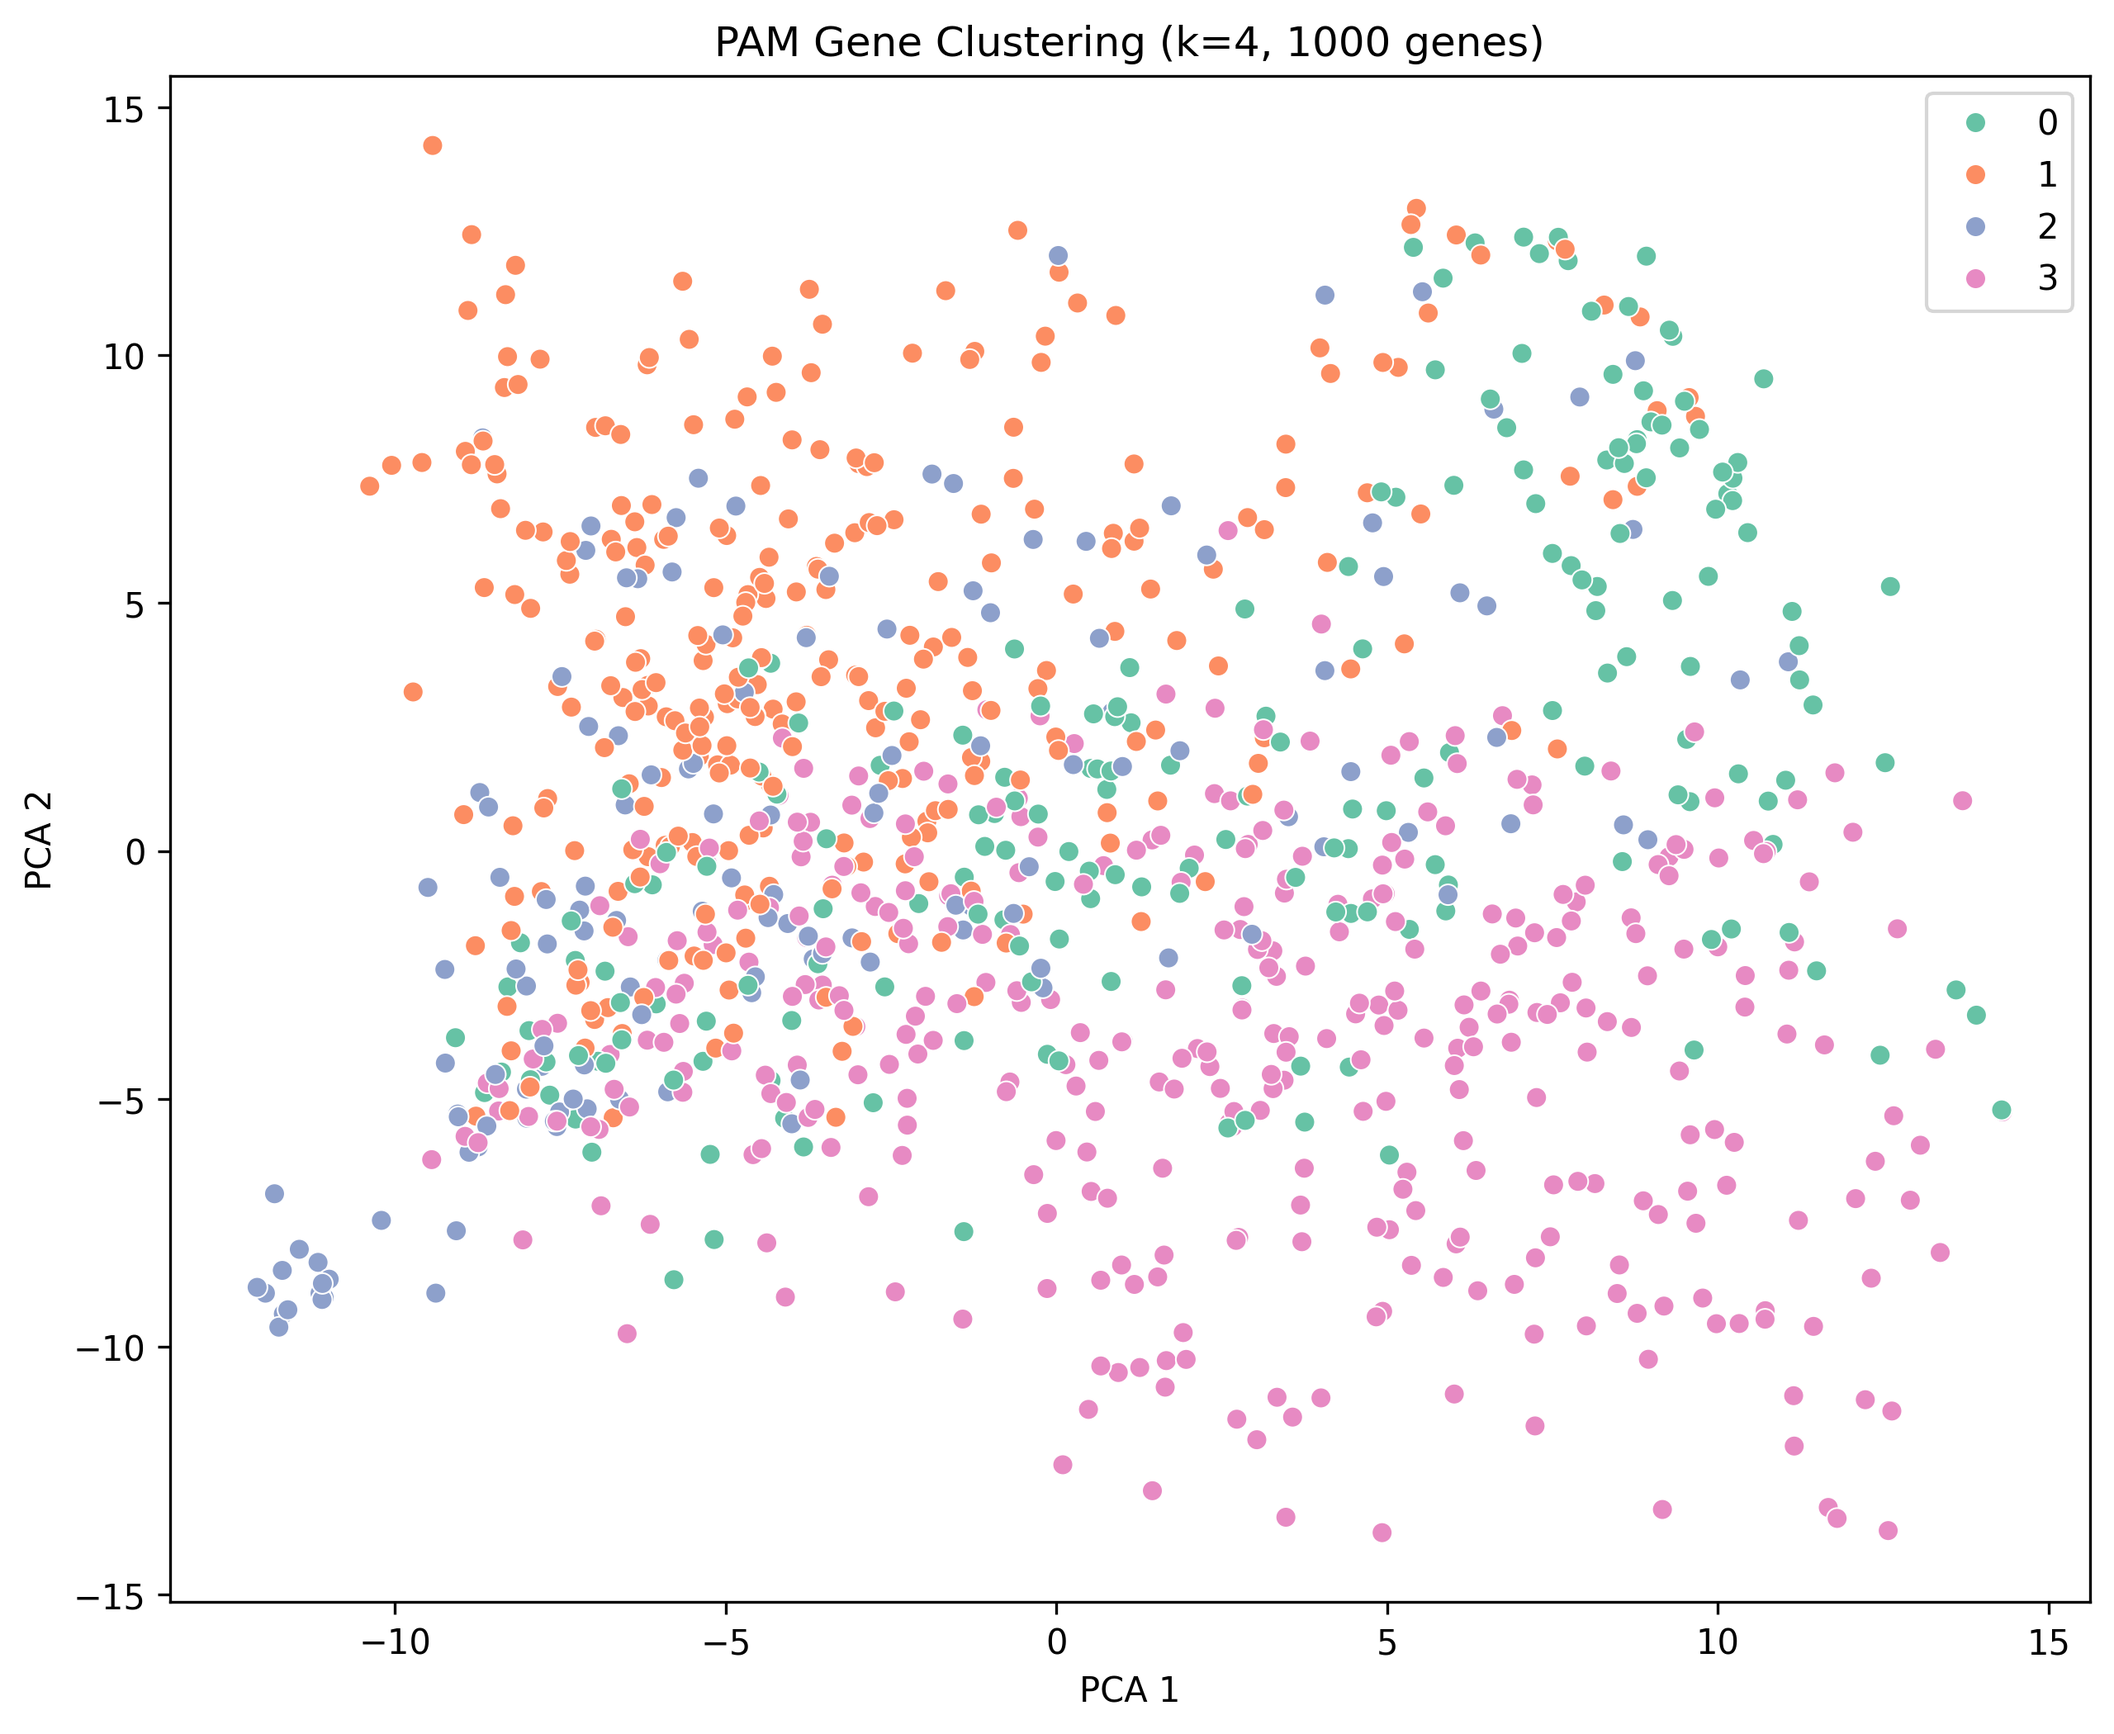
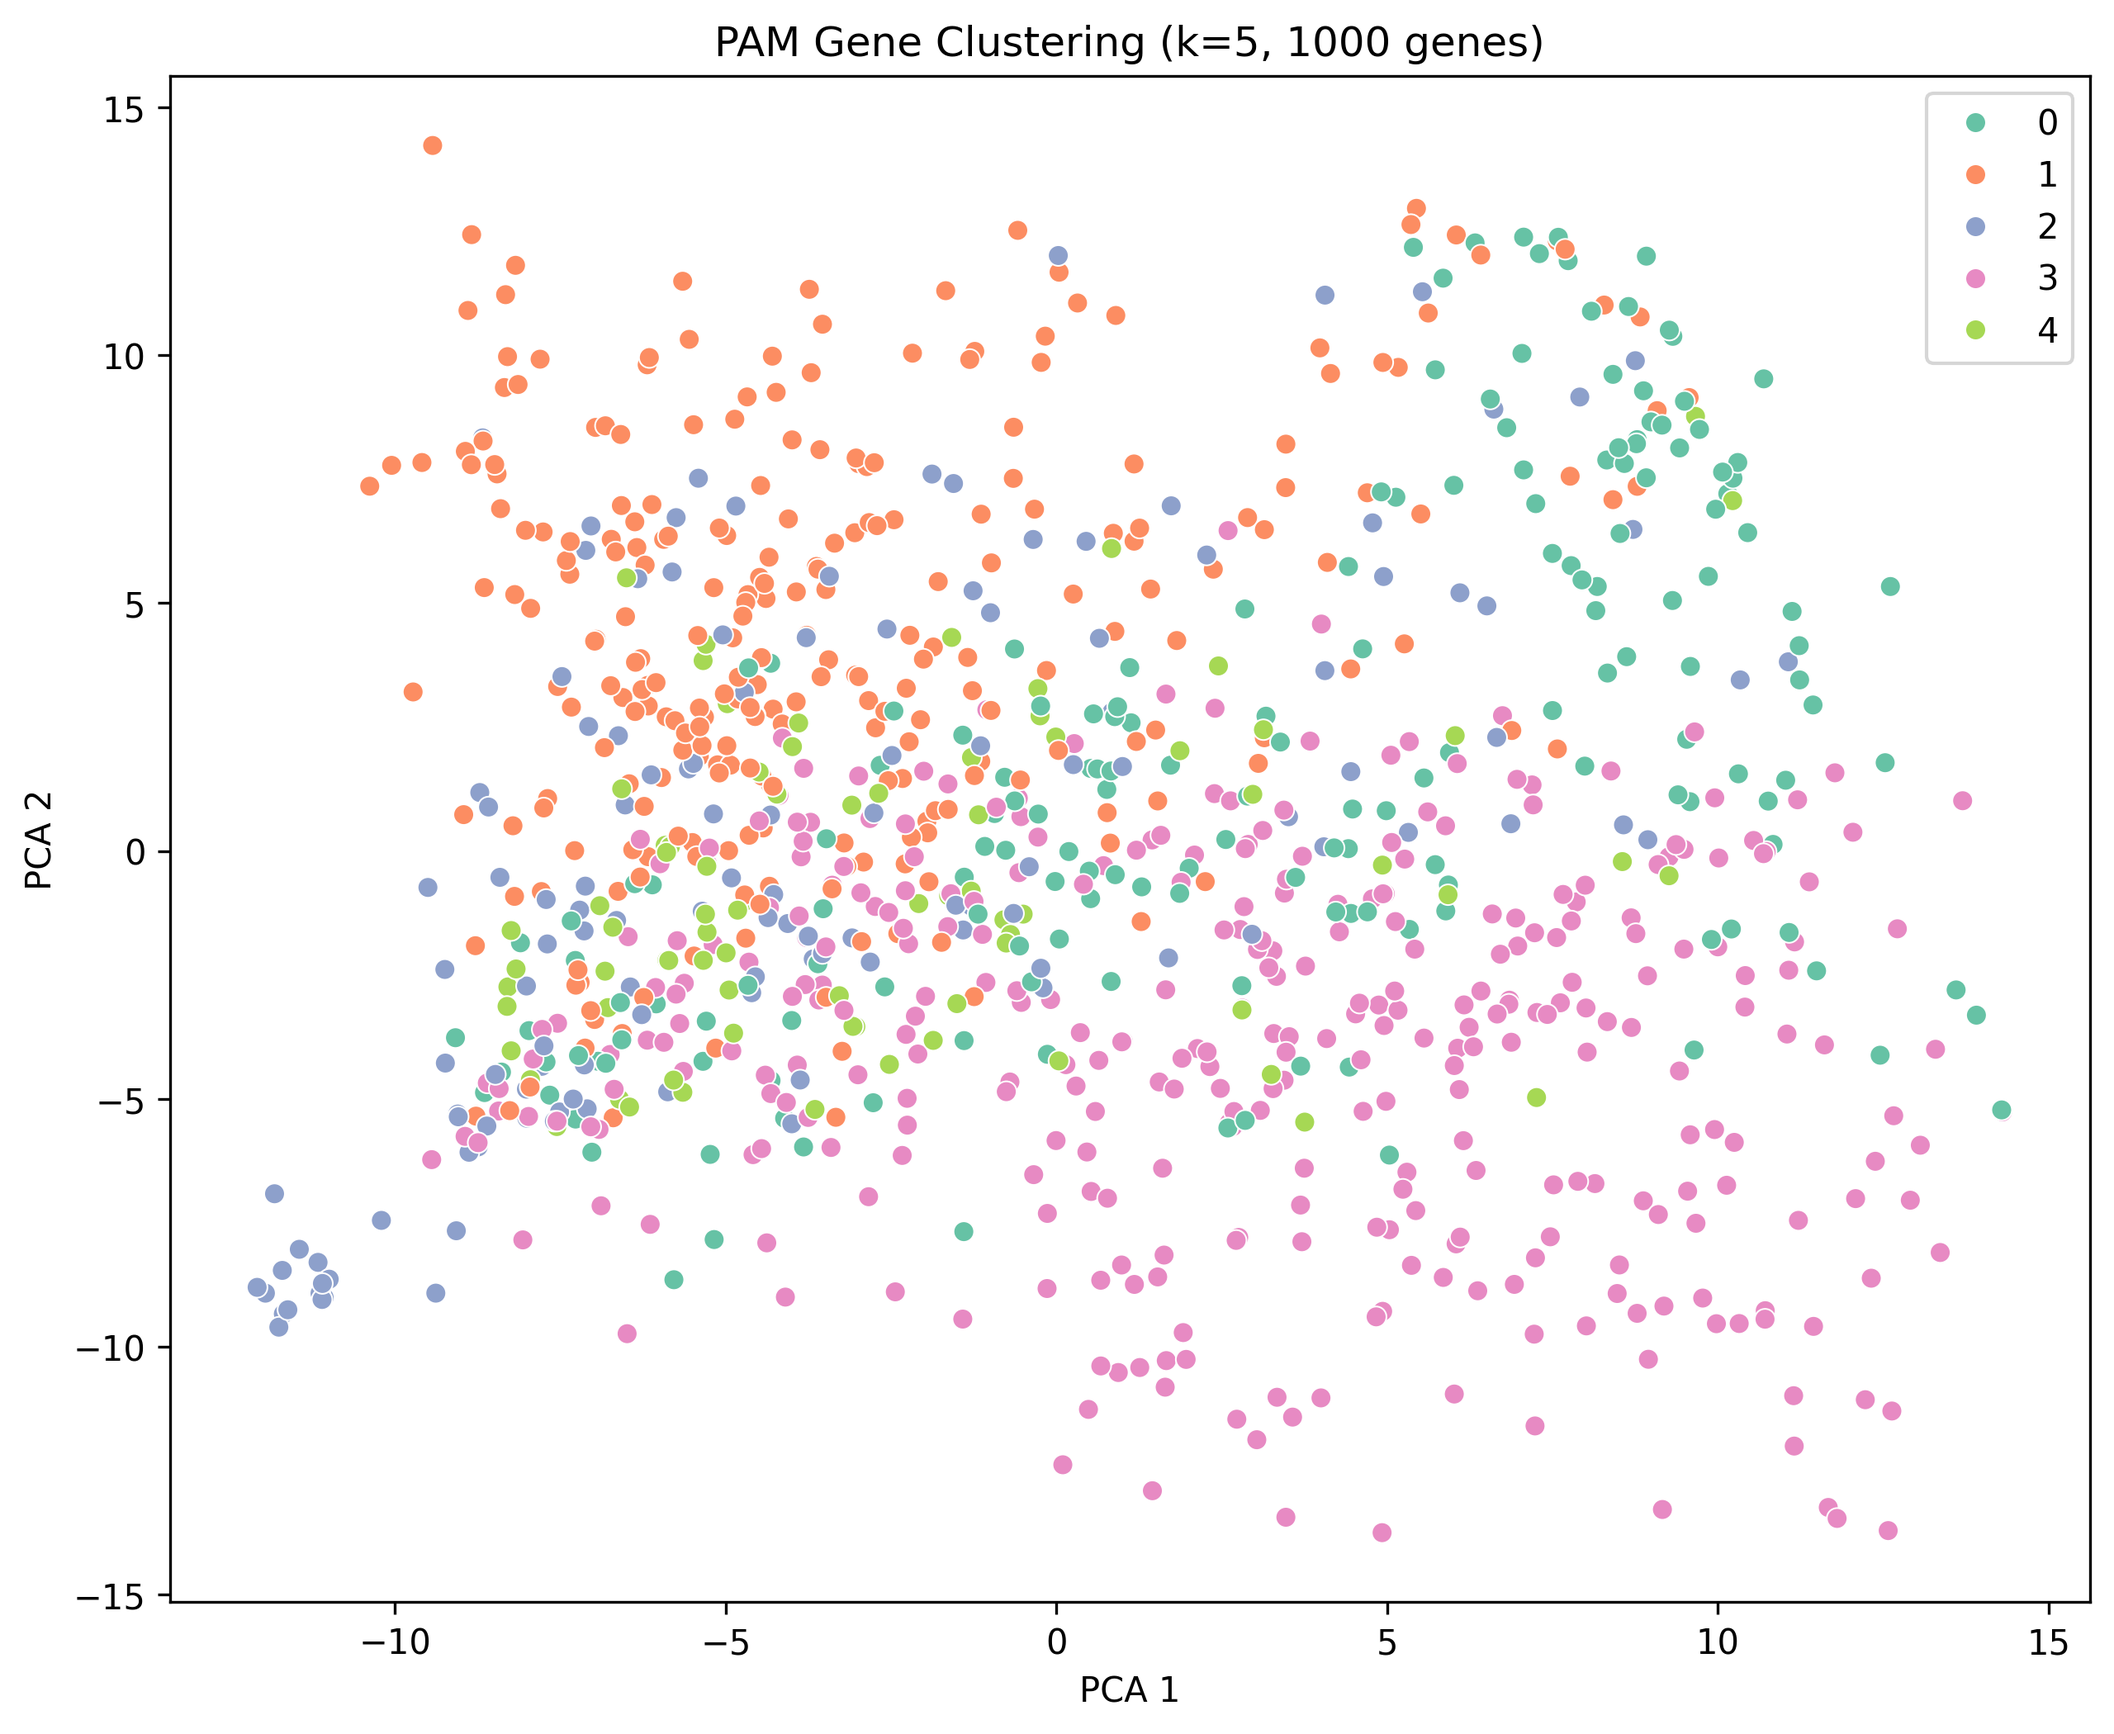
changed k value

diff --git a/src/pam.py b/src/pam.py
@@ -117,10 +117,10 @@ def chi(g10, g100, g1000, g5000, g10000):
 
 
 if __name__ == "__main__":
-    g_10 = pam("data/with_gene_names.tsv", 4, 10)
-    g_100 = pam("data/with_gene_names.tsv", 4, 100)
-    g_1000 = pam("data/with_gene_names.tsv", 4, 1000)
-    g_5000 = pam("data/with_gene_names.tsv", 4, 5000)
-    g_10000 = pam("data/with_gene_names.tsv", 4, 10000)
+    g_10 = pam("data/with_gene_names.tsv", 5, 10)
+    g_100 = pam("data/with_gene_names.tsv", 5, 100)
+    g_1000 = pam("data/with_gene_names.tsv", 5, 1000)
+    g_5000 = pam("data/with_gene_names.tsv", 5, 5000)
+    g_10000 = pam("data/with_gene_names.tsv", 5, 10000)
 
     chi(g_10, g_100, g_1000, g_5000, g_10000)
